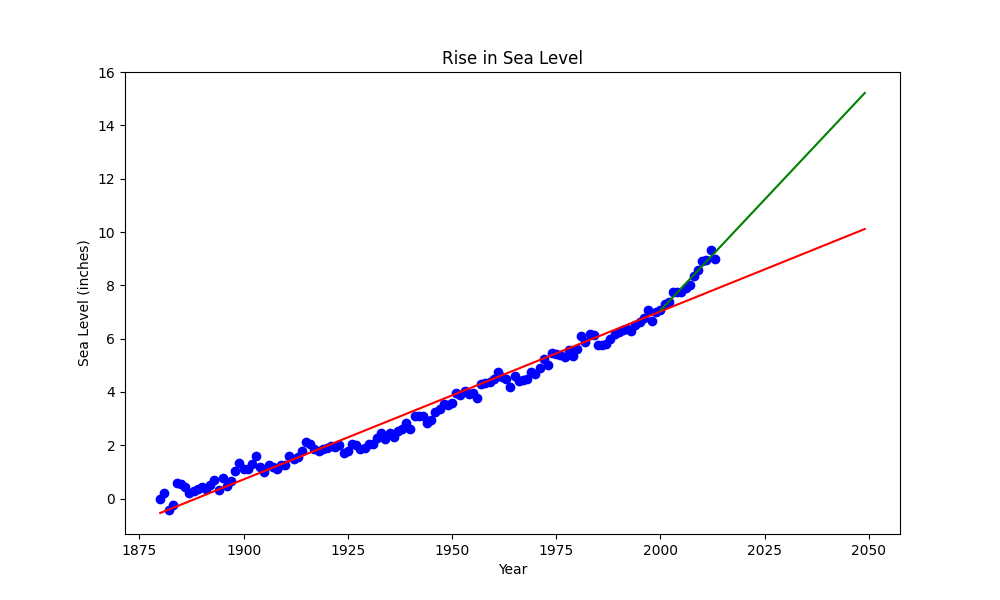
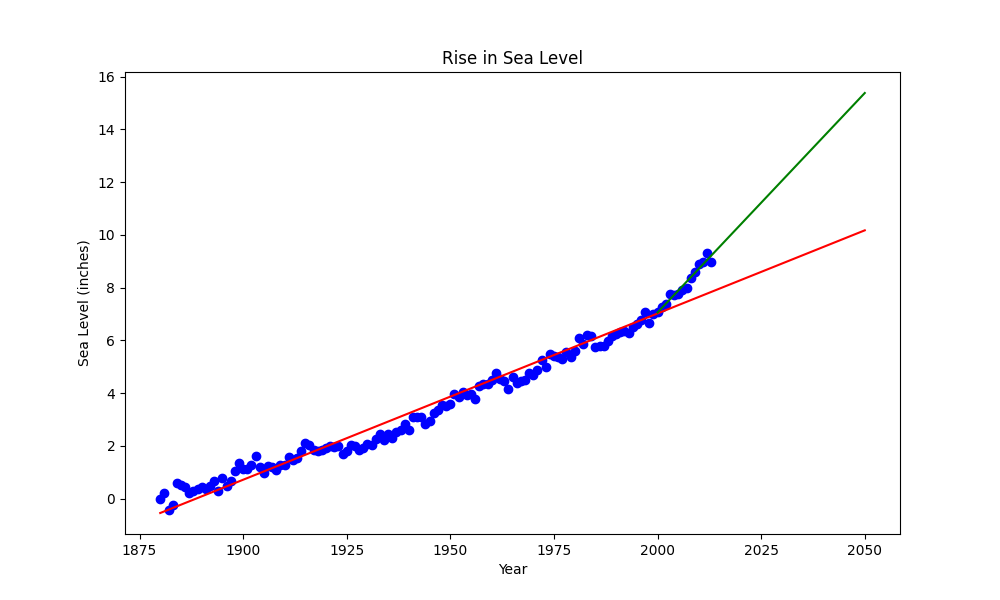
d

diff --git a/sea_level_predictor.py b/sea_level_predictor.py
@@ -14,15 +14,16 @@ def draw_plot():
 
     # Create first line of best fit
     slope, intercept, *args = linregress(x, y)
-    x_fit1 = pd.Series(range(1880, 2050))
+    x_fit1 = pd.Series(range(1880, 2051))
     y_fit1 = intercept + slope * x_fit1
     plt.plot(x_fit1, y_fit1, color='red', label='Best Fit Line (1880-2050)')
 
     # Create second line of best fit
     x = df[df['Year'] >= 2000]['Year']
     y = df[df['Year'] >= 2000]['CSIRO Adjusted Sea Level']
+    
     slope, intercept, *args = linregress(x, y)
-    x_fit2 = pd.Series(range(2000, 2050))
+    x_fit2 = pd.Series(range(2000, 2051))
     y_fit2 = intercept + slope * x_fit2
     plt.plot(x_fit2, y_fit2, color='green', label='Best Fit Line (2000-2050)')
 
